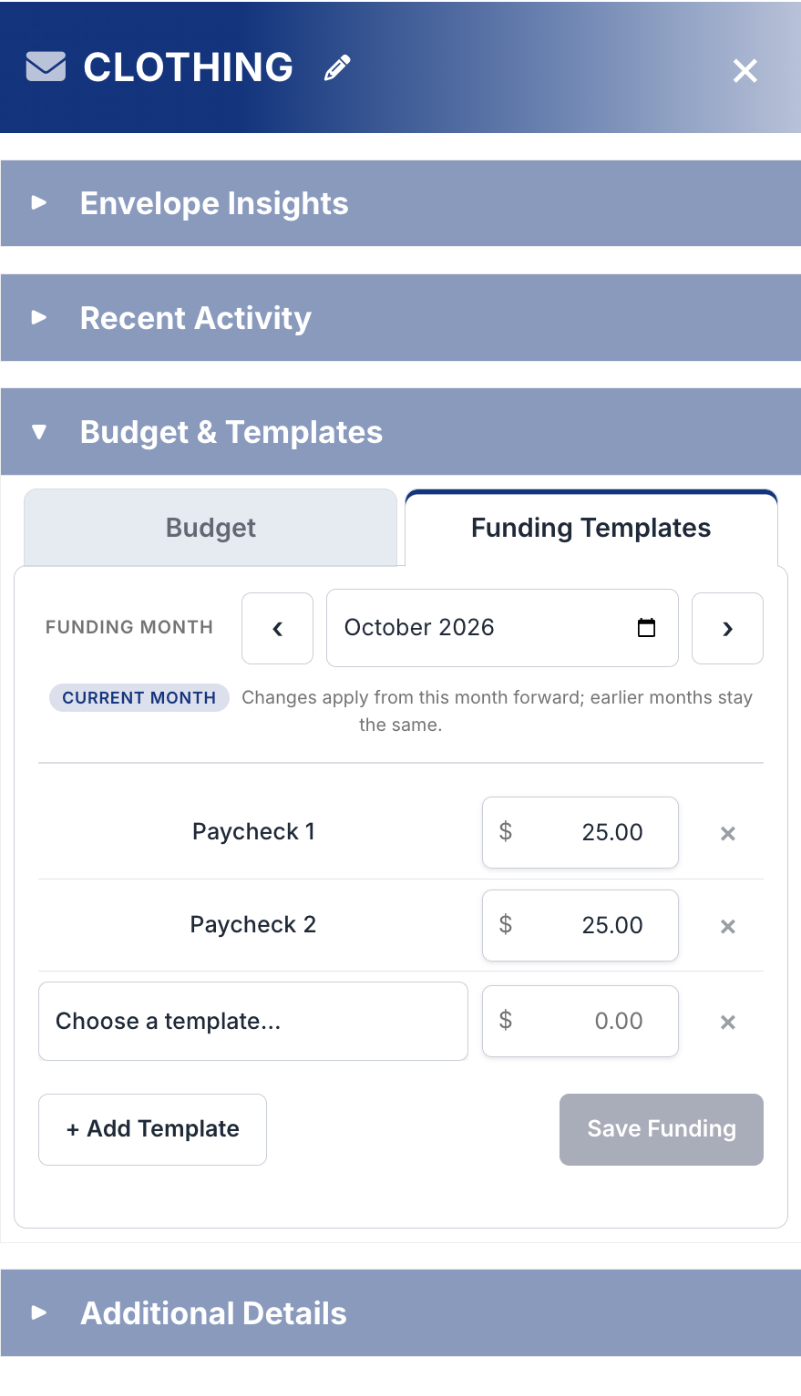
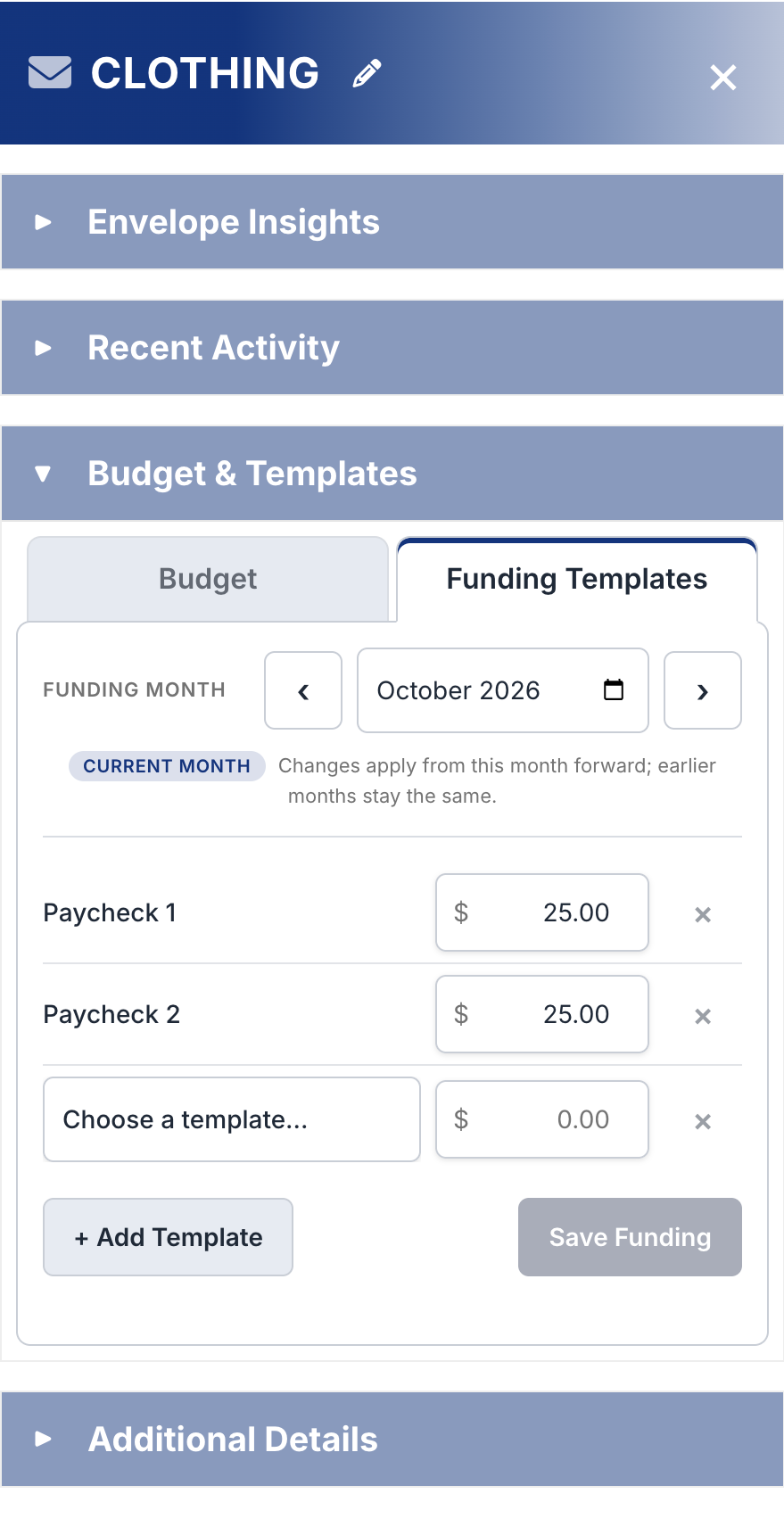
Docs: updated Payday Edit Templates and Funding Templates screenshots
Phone screenshots of the new Edit Templates bar (+ button, scrolling
template list with arrow) and the new-template name box; Funding
Templates tab with left-aligned names. Payday steps mention the + button
and the arrow.

diff --git a/ue26/companion-payday.md b/ue26/companion-payday.md
@@ -87,11 +87,11 @@ Using [Budget Tools](/ue26/budget-tools/) in your sheet? Then the app isn't limi
 ### Edit a Template
 
 1. Tap **Payday** in the tab bar again, then tap **Edit Templates**.
-2. Choose the template to edit (for example, **Paycheck 1**, **Paycheck 2**).
+2. Choose the template to edit (for example, **Paycheck 1**, **Paycheck 2**). If you have more than fit on the screen, swipe the list or tap the **›** arrow.
 3. Change the amounts. Each account header shows how many envelopes have an amount and the total.
 4. Tap **Save Template**. To leave without saving, tap **×**.
 
-{% include figure class="phone-screenshot" image_path="/assets/images/companion-payday-edit-templates.jpg" alt="Editing template screen with Paycheck 1, Paycheck 2, Chase, and Savings template chips, and envelope amounts grouped by account" caption="Editing a funding template" %}
+{% include figure class="phone-screenshot" image_path="/assets/images/companion-payday-edit-templates.png" alt="Edit Templates on a phone: a plus button, then Paycheck 1 selected among the template pills with an arrow to see more, and Joint Checking envelope amounts below" caption="Editing a funding template" %}
 
 Editing a template only changes its saved amounts. Nothing is funded until you use the template on the Payday screen and tap **Fund Envelopes**.
 {: .notice--info}
@@ -102,12 +102,12 @@ On a sheet using [Budget Tools](/ue26/budget-tools/), template changes start fro
 
 *Available on sheets using [Budget Tools](/ue26/budget-tools/).*
 
-1. In **Edit Templates**, tap **+ New Template** at the end of the template list.
-2. Type a name and tap **Add** (or press Enter).
+1. In **Edit Templates**, tap the round **+** button at the start of the template list.
+2. Type a name and tap **Add** (or press Enter). **Cancel** brings the template list back.
 3. Enter amounts for the envelopes that should get money from it.
 4. Tap **Save Template**. The new template now appears in the **Funding Templates** list.
 
-{% include figure image_path="/assets/images/companion-payday-new-template.png" alt="Payday Edit Templates bar with Paycheck 1, Paycheck 2, Template 3 and Template 4 tabs, and a new template name box containing bonus with an Add button" caption="Adding a template in Edit Templates" %}
+{% include figure class="phone-screenshot" image_path="/assets/images/companion-payday-new-template.png" alt="Edit Templates with the new template name box showing Bonus, and Add and Cancel buttons" caption="Adding a template in Edit Templates" %}
 
 A new template is only kept once it has at least one amount saved.
 
